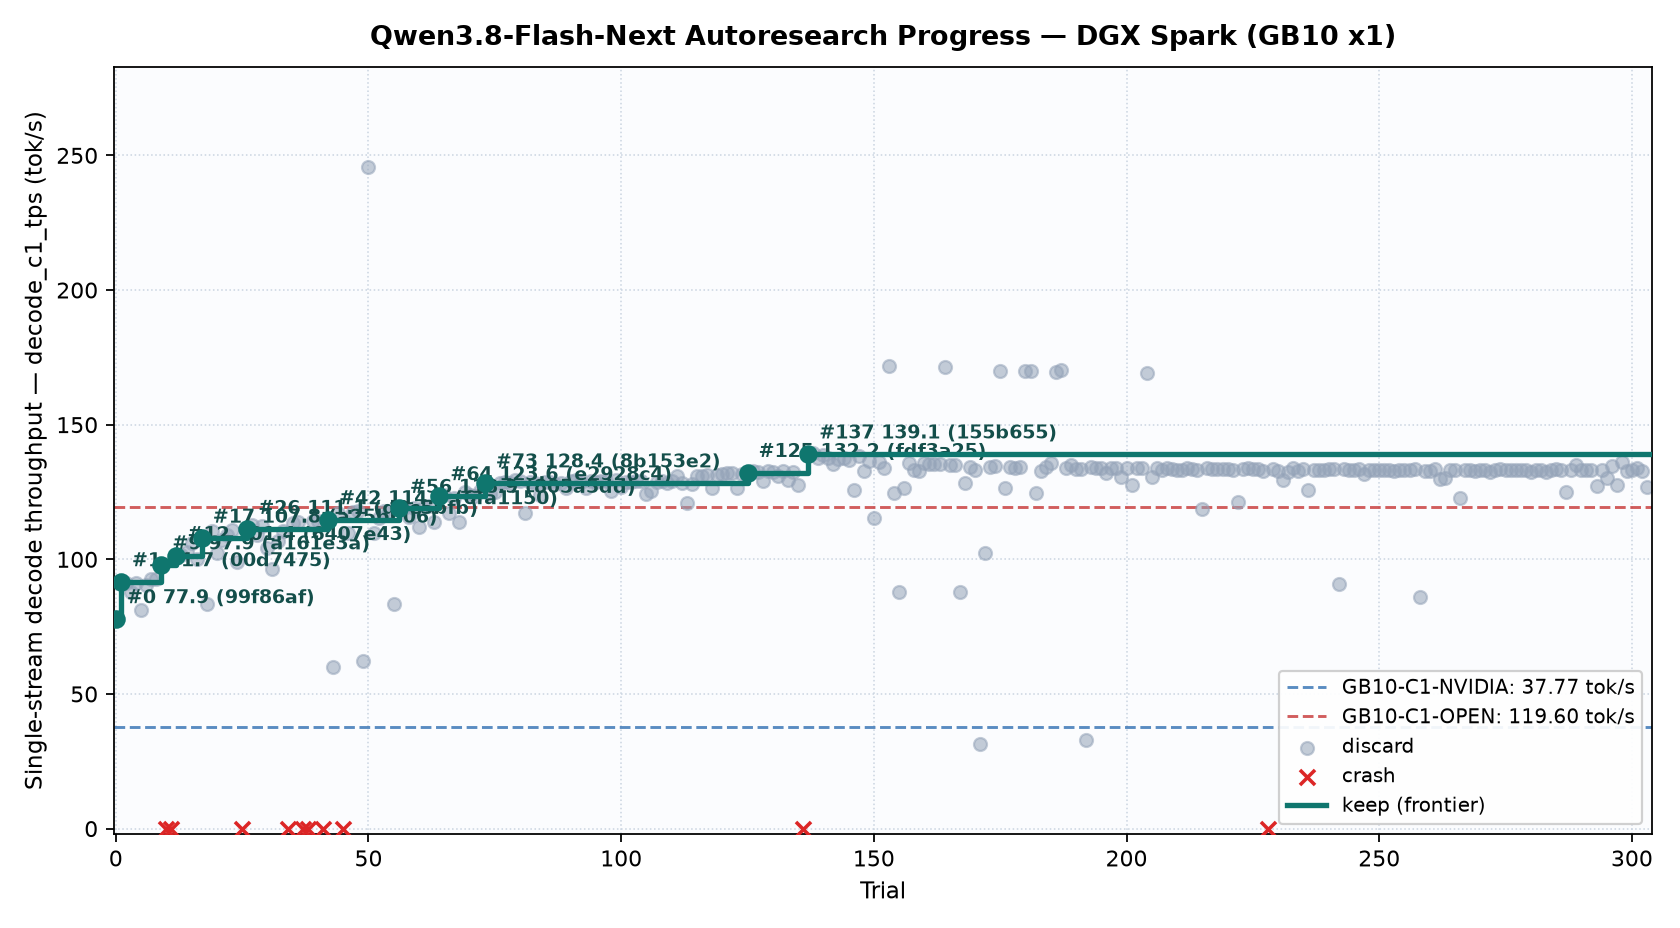
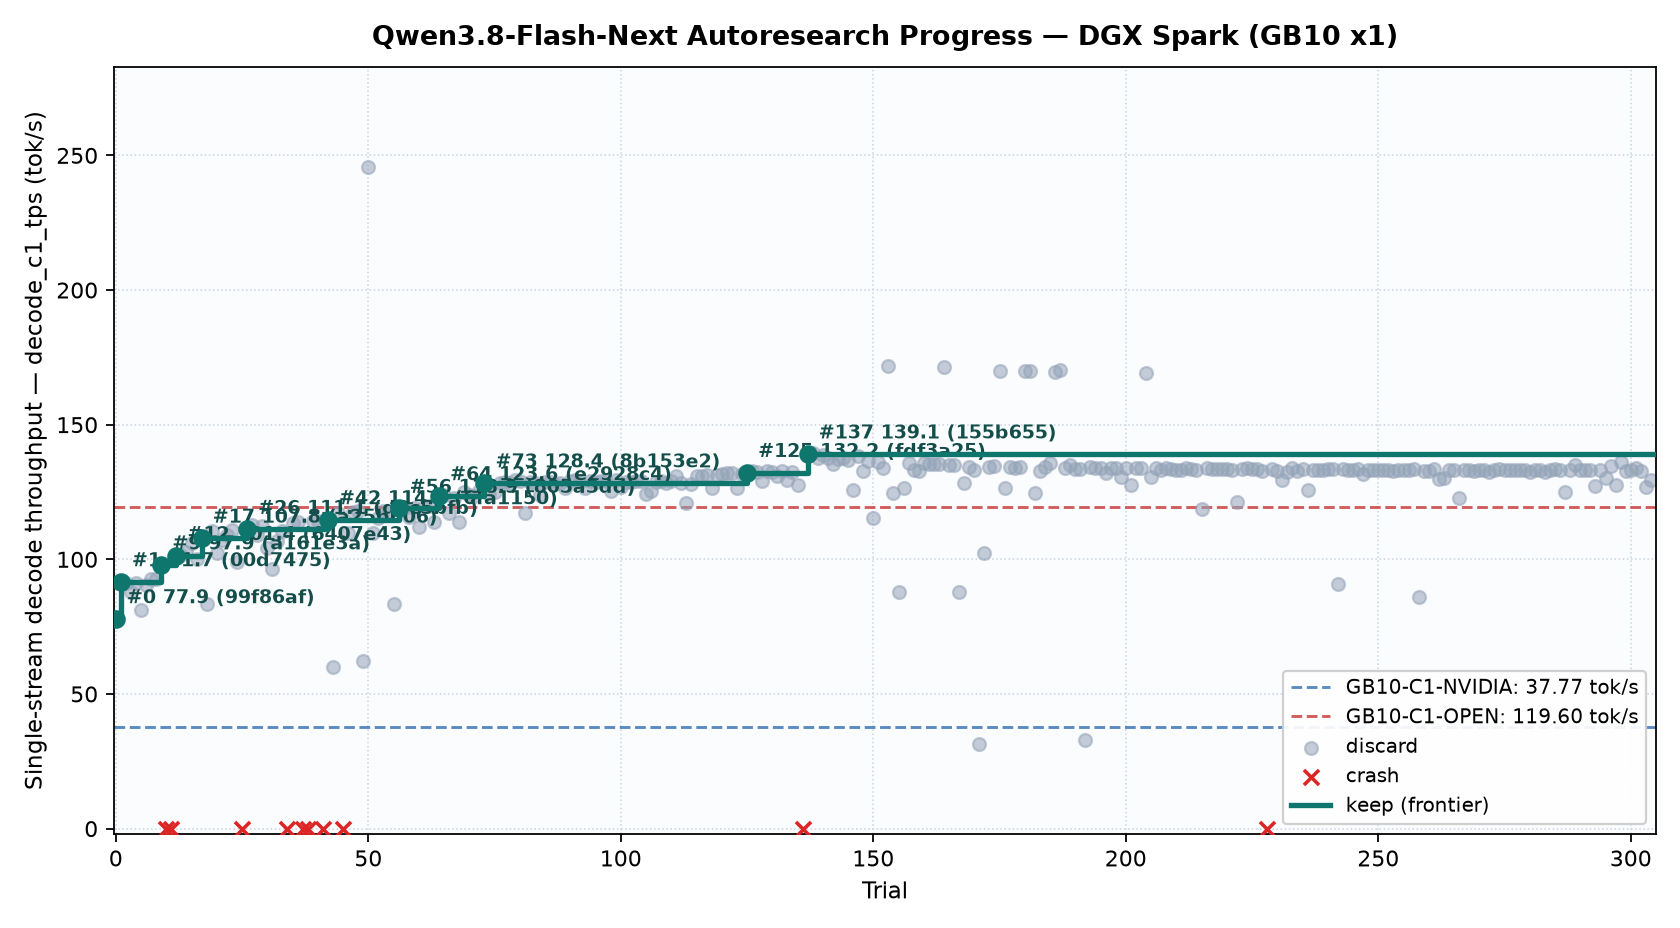
spark trial 304: discard

diff --git a/records/research-log.md b/records/research-log.md
@@ -337,3 +337,4 @@ Deprioritized: **3-bit expert weights** (Hibana +43% but GPQA -0.3, LCB -2.3; on
 | 2026-11-23 01:48 | 301 (new stack) | <https://github.com/sharar-project/hibana/blob/v0.1.0/hibana/engine/depth.py> | Checked release, commit and PR feeds for all six engines. Trial 300 recorded 133.21 C1 and 239.80 C8 (discard). Trials 189 and 289 reached 135.12 and 135.20 C1 at greedy limits of 19 and 23. Defer upstream release changes. | Hibana item 3. Allow the existing confidence stop to use the full 31-token draft buffer on long high-confidence runs. Apply the greedy policy across profiles and keep the sampled limit. |
 | 2026-11-23 01:53 | 302 (new stack) | <https://github.com/ashhart/TensorFold/pull/4618> | Checked release, commit and PR feeds for all six engines. Trial 301 recorded 133.96 C1 and 240.43 C8 (discard). TensorFold reuses its output weights across multiple input rows on Metal. The retained CUDA verifier instead has multiple sparse vocabulary candidates for each input. | Adapt the reuse idea to pairs of vocabulary rows. Score two candidates per warp using the same activation fragment and independent FP32 accumulators, preserving each original reduction order. |
 | 2026-11-23 02:01 | 303 (new stack) | <https://github.com/ashhart/TensorFold/blob/v1.2.9/zig/kernels/cuda/nvfp4_experts.cu> | Checked release, commit and PR feeds for all six engines. Trial 302 recorded 132.89 C1 and 240.43 C8 (discard). Earlier magnitude-weighted scale selection used the down matrix itself. Packed gate and up rows provide an independent proxy for the input energy of each downstream channel. | Weight scale-selection error for each draft expert down projection by the geometric mean of its upstream gate and up row energies. Reuse existing scale bytes and target routing. |
+| 2026-11-23 02:10 | 304 (new stack) | <https://huggingface.co/diffbot/Qwen3.8-Flash-Next-FP4-Local-DGX-Spark/tree/38b78560cc7d4b91287c9d5bb49da728e16f46eb> | Checked release, commit and PR feeds for all six engines. Trial 303 recorded 127.02 C1 and 239.81 C8 (discard). Trial 298 reached 136.16 C1 with the tuned hidden input. At the original draft weights, trial 289 reached 135.20 C1 at depth 23 and trial 301 reached 133.96 at depth 31. Defer the trimmed-head change in llama.cpp PR 31037. | Test whether the tuned hidden-state draft projection supports longer accepted runs at a 23-token ceiling. Compare directly with trial 298, retaining its target checkpoint and verifier. |
